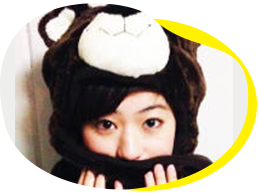
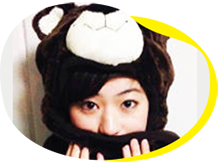
img修正

diff --git a/index.html b/index.html
@@ -125,16 +125,16 @@
         <img src="img/member_text.png" alt="トラブル住人" width="100px" class="member_text"/>
         <img src="img/member_tolablkun.png" alt="tolablkun" width="100px" class="tolablkun"/>
 
-        <a href="#"><img src="img/member_ouma.png" alt="ouma" width="200px" class="ouma hovimg"/></a>
+        <a href="#"><img src="img/member_ouma.png" alt="ouma" class="ouma hovimg"/></a>
 			
 
-        <img src="img/member_shirahama.png" alt="shirahama" width="200px" class="shirahama hovimg"/>
+        <img src="img/member_shirahama.png" alt="shirahama" class="shirahama hovimg"/>
 
-        <img src="img/member_nobi.png" alt="n0bisuke" width="200px" class="n0bisuke hovimg"/>
+        <img src="img/member_nobi.png" alt="n0bisuke" class="n0bisuke hovimg"/>
 
-        <img src="img/member_chiba.png" alt="chiba" width="200px" class="chiba hovimg"/>
+        <img src="img/member_chiba.png" alt="chiba" class="chiba hovimg"/>
 
-        <img src="img/member_5.png" alt="5" width="150px" class="five hovimg"/>
+        <img src="img/member_5.png" alt="5" class="five hovimg"/>
     </div>
 
     <!--セミレギュラー-->
